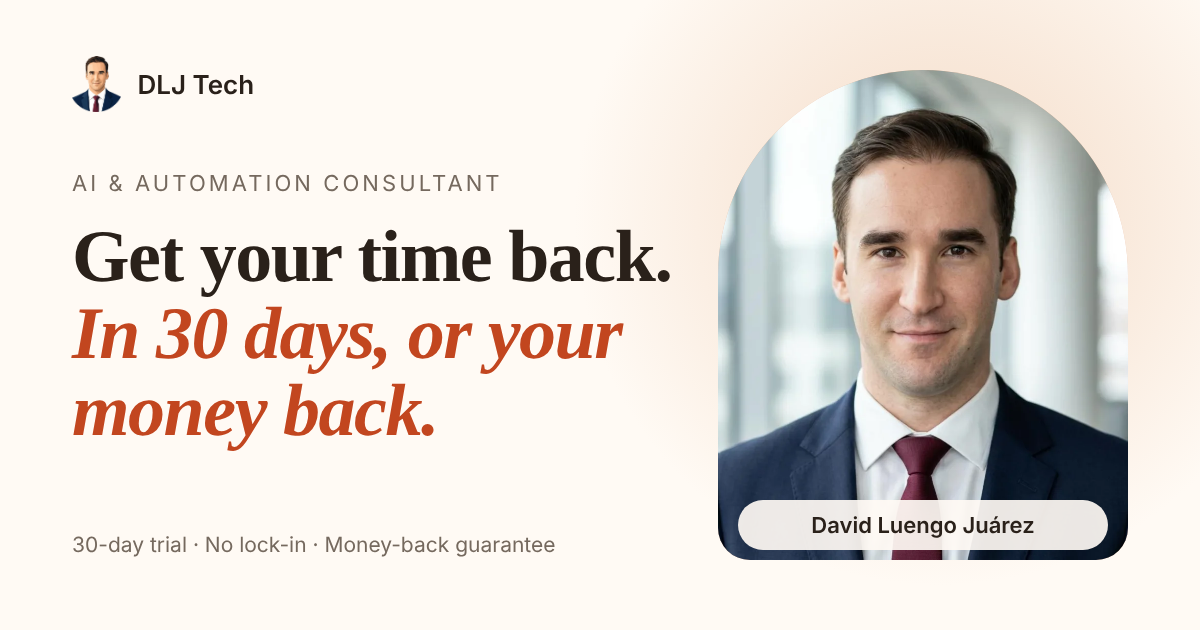
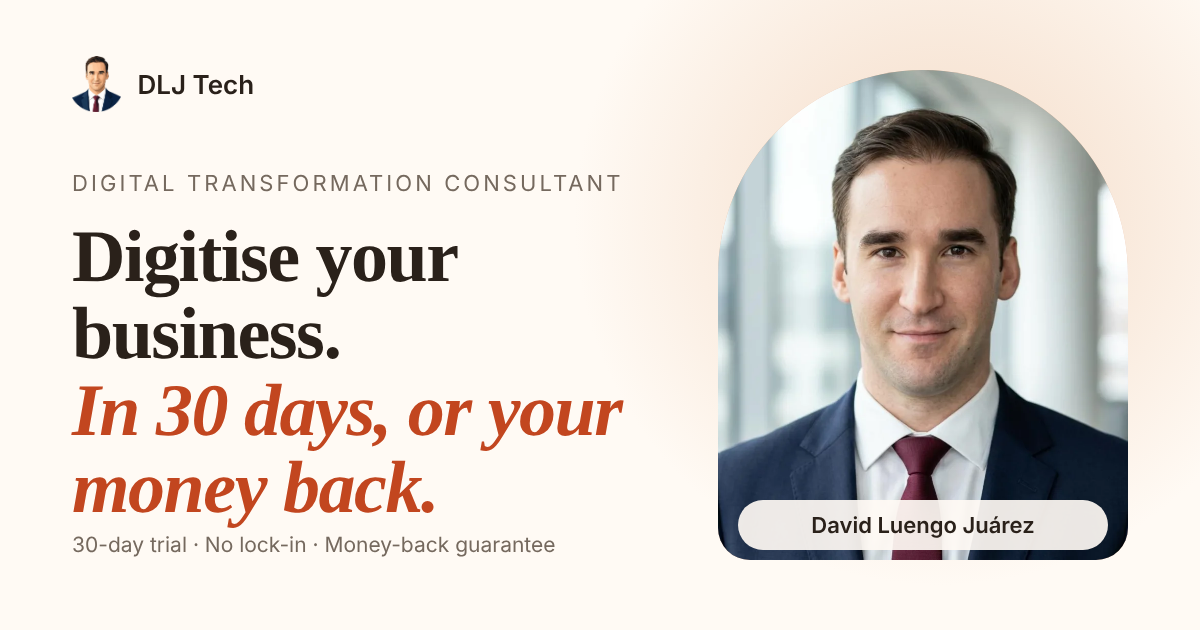
Reposition as Digital Transformation Consultant; show 3 cases with 'show more'
Claude-Session: https://claude.ai/code/session_011NqQPUufcnAxCw1TgCsvw7

Changed region(s): [[0.0617, 0.3619, 0.555, 0.8444], [0.0617, 0.2714, 0.5242, 0.3016]]

diff --git a/src/data/copy.ts b/src/data/copy.ts
@@ -6,8 +6,8 @@ const es = {
   htmlLang: 'es-ES',
   ogLocale: 'es_ES',
   seo: {
-    title: 'David Luengo Juárez · Consultor de IA y automatización',
-    description: 'Automatizo las tareas repetitivas de tu negocio con IA y herramientas a medida. Prueba de 30 días, sin permanencia y con garantía de devolución.',
+    title: 'David Luengo Juárez · Consultor de Transformación Digital',
+    description: 'Te ayudo a digitalizar y modernizar tu negocio: diagnóstico, hoja de ruta e implantación de procesos, herramientas y automatización. Prueba de 30 días, sin permanencia y con garantía de devolución.',
   },
   nav: { cta: 'Contacto', switch: 'English', switchLabel: 'Read this site in English', home: 'Inicio', skip: 'Saltar al contenido' },
   wa: { cta: 'Escríbeme por WhatsApp', msg: 'Hola David, me gustaría saber más sobre la prueba de 30 días.', or: 'o prefieres', form: 'rellenar el formulario' },
@@ -22,9 +22,9 @@ const es = {
   },
   stats: { h2: 'Resultados reales' },
   hero: {
-    h1: 'Recupera tu tiempo.',
+    h1: 'Digitaliza tu negocio.',
     h1b: 'En 30 días, o te devuelvo el dinero.',
-    sub: 'Parece que tu equipo pierde horas en tareas repetitivas, y que ya has oído muchas promesas. Por eso empezamos con una prueba de 30 días, sin permanencia.',
+    sub: 'Parece que tu negocio depende de procesos manuales y herramientas dispersas, y que ya has oído muchas promesas. Por eso empezamos con una prueba de 30 días, sin permanencia.',
     cta: 'Reservar una llamada gratuita',
     cta2: 'Ver cómo funciona',
     bullets: ['Sin permanencia', 'Resultados medibles en semanas', 'Devolución si no se cumple lo acordado'],
@@ -34,40 +34,41 @@ const es = {
   plan: {
     h2: 'Una oferta clara, sin letra pequeña',
     badge: 'Prueba de 30 días',
-    name: 'Automatización a medida',
+    name: 'Sprint de transformación digital',
     from: 'desde',
     price: '997',
     unit: 'USD · pago único',
-    features: ['Descubrimiento de tus 3-6 procesos clave', 'Automatización diseñada y desplegada por mí', 'Mejoras medibles acordadas por escrito', 'Sin permanencia ni cuotas', 'Garantía de devolución del dinero'],
+    features: ['Diagnóstico de tus 3-6 procesos clave', 'Hoja de ruta con objetivos medibles acordados por escrito', 'Primera mejora implantada: herramientas, automatización o IA', 'Sin permanencia ni cuotas', 'Garantía de devolución del dinero'],
     cta: 'Quiero empezar',
     note: 'Antes de empezar compruebo que puedo conseguirlo.',
   },
   services: {
-    h2: 'Cómo te ayudo a crecer',
+    h2: 'Cómo te ayudo a transformar tu negocio',
     items: [
-      { t: 'Reduce costes', d: 'Elimina tareas repetitivas y errores manuales con automatización inteligente.' },
-      { t: 'Crece más rápido', d: 'Herramientas a medida que simplifican tu operación.' },
-      { t: 'Resultados o te devuelvo el dinero', d: 'Mejoras medibles acordadas por escrito, o reembolso completo.' },
+      { t: 'Diagnóstico claro', d: 'Mapeamos procesos, herramientas y datos para ver dónde se pierden tiempo y dinero.' },
+      { t: 'Hoja de ruta práctica', d: 'Priorizamos mejoras de alto impacto y bajo riesgo, paso a paso.' },
+      { t: 'Implantación y adopción', d: 'Pongo en marcha herramientas, automatización e IA y acompaño a tu equipo para que se usen.' },
     ],
   },
   method: {
     h2: 'Empezar es sencillo',
     steps: [
-      { t: 'Descubrimiento', d: 'Identificamos los 3-6 procesos que de verdad importan.' },
-      { t: 'Simplificar', d: 'Diseñamos soluciones sencillas y rápidas.' },
-      { t: 'Automatizar', d: 'Lo desplegamos y lo dejamos midiendo resultados.' },
+      { t: 'Diagnóstico', d: 'Identificamos los 3-6 procesos que de verdad importan.' },
+      { t: 'Hoja de ruta', d: 'Diseñamos un plan sencillo, priorizado y medible.' },
+      { t: 'Implantación', d: 'Lo ponemos en marcha, formamos al equipo y medimos resultados.' },
     ],
   },
   compare: {
     h2: '¿Por qué DLJ Tech?',
     othersH: 'Otros',
     meH: 'DLJ Tech',
-    others: ['Soluciones genéricas', 'Sistemas complejos', 'Plazos largos y resultados poco claros', 'Contratos largos'],
-    me: ['Adaptado a tu sector', 'Herramientas simples', 'Resultados medibles en semanas', 'Sin permanencia'],
+    others: ['Proyectos largos y complejos', 'Herramientas que nadie usa', 'Resultados poco claros', 'Contratos largos'],
+    me: ['Plan adaptado a tu sector', 'Cambios simples que tu equipo adopta', 'Resultados medibles en semanas', 'Sin permanencia'],
   },
   faq: {
     h2: 'Preguntas frecuentes',
     items: [
+      { q: '¿Qué es la transformación digital en la práctica?', a: 'Usar mejor la tecnología y los datos para que tu negocio funcione con menos fricción: procesos digitalizados, herramientas conectadas y tareas repetitivas automatizadas. No se trata de comprar software, sino de resolver problemas concretos.' },
       { q: '¿Qué tan rápido puedes implantarlo?', a: 'Normalmente en 2-4 semanas, según la complejidad.' },
       { q: '¿Cuánto cuesta empezar?', a: 'La prueba de 30 días cuesta desde 997 USD, un único pago. Sin permanencia ni cuotas.' },
       { q: '¿Cuánto tiempo me exige?', a: 'Muy poco. Hablamos al principio y revisamos resultados; el trabajo técnico lo hago yo.' },
@@ -76,7 +77,7 @@ const es = {
   },
   about: {
     h2: 'Sobre mí',
-    text: 'Soy David Luengo Juárez, fundador de DLJ Tech. Automatizo procesos con IA y construyo herramientas para pymes, en español e inglés.',
+    text: 'Soy David Luengo Juárez, consultor de transformación digital y fundador de DLJ Tech. Ayudo a pymes a digitalizar procesos, conectar sus herramientas y automatizar con IA, en español e inglés.',
     linkedin: 'LinkedIn',
     github: 'GitHub',
   },
@@ -84,17 +85,19 @@ const es = {
   footer: { privacy: 'Privacidad', rights: 'Todos los derechos reservados.' },
   cases: {
     h2: 'Casos por sector',
-    sub: 'Ejemplos de lo que puedo automatizar en tu negocio.',
+    sub: 'Ejemplos de cómo puedo transformar tu negocio.',
     more: 'Ver caso',
+    showMore: 'Ver más casos',
+    showLess: 'Ver menos casos',
     back: 'Todos los casos', buildH: 'Qué construiría', measureH: 'Qué mediríamos',
     note: 'Escenario representativo. Los resultados dependen de tu operación y se acuerdan por escrito.',
     ctaH: '¿Te suena?',
     items: [
-      { slug: 'logistica', industry: 'Logística', title: 'Cotizaciones y envíos sin copiar y pegar', problem: 'Parece que tu equipo pasa el día pasando datos de correos y PDFs a hojas de cálculo.', build: ['Lectura automática de solicitudes y albaranes', 'Cotizaciones en minutos', 'Avisos de estado al cliente'], measure: ['Horas de entrada de datos', 'Tiempo hasta la cotización', 'Errores al mes'], seo: 'Automatización con IA para logística: cotizaciones, lectura de albaranes y avisos de estado de envíos.' },
-      { slug: 'viajes', industry: 'Viajes', title: 'De la consulta al itinerario en minutos', problem: 'Parece que cada consulta llega por un canal distinto y alguna se queda sin respuesta.', build: ['Bandeja única con respuesta inmediata', 'Borrador de itinerario y presupuesto', 'Seguimiento automático'], measure: ['Tiempo de primera respuesta', 'Propuestas por semana', 'Conversión a reserva'], seo: 'Automatización con IA para agencias de viajes: consultas, itinerarios y presupuestos.' },
-      { slug: 'restaurantes', industry: 'Restauración', title: 'Menos papeleo, más tiempo en sala', problem: 'Parece que el teléfono suena justo cuando el servicio está más cargado.', build: ['Reservas y dudas por WhatsApp', 'Respuestas a reseñas con tu tono', 'Alertas de stock y pedidos'], measure: ['Llamadas atendidas', 'No-shows', 'Roturas de stock'], seo: 'Automatización con IA para restaurantes: reservas, reseñas y pedidos a proveedores.' },
-      { slug: 'educacion-idiomas', industry: 'Idiomas', title: 'Matrículas y seguimiento en piloto automático', problem: 'Parece que los alumnos se pierden entre la clase de prueba y la matrícula.', build: ['Prueba de nivel y clase de prueba automáticas', 'Agenda y recordatorios', 'Borradores de informes de progreso'], measure: ['Conversión a matrícula', 'Horas de gestión', 'Faltas sin aviso'], seo: 'Automatización con IA para academias de idiomas: captación, agenda e informes de progreso.' },
-      { slug: 'salud', industry: 'Salud', title: 'Citas y admisiones con menos fricción', problem: 'Parece que recepción dedica horas a confirmar citas por teléfono.', build: ['Recordatorios y confirmaciones', 'Formularios de admisión digitales', 'Orden documental con revisión humana'], measure: ['Ausencias sin aviso', 'Llamadas evitadas', 'Tiempo de admisión'], seo: 'Automatización administrativa para clínicas: citas, admisión y documentos, cuidando la privacidad.' },
+      { slug: 'logistica', industry: 'Logística', title: 'De correos y hojas de cálculo a un flujo digital', problem: 'Parece que tu equipo pasa el día pasando datos de correos y PDFs a hojas de cálculo.', build: ['Mapa de procesos y datos de punta a punta', 'Cotizaciones y albaranes digitalizados', 'Avisos de estado al cliente'], measure: ['Horas de entrada de datos', 'Tiempo hasta la cotización', 'Errores al mes'], seo: 'Transformación digital para logística: procesos de cotización, albaranes y avisos de estado de envíos.' },
+      { slug: 'viajes', industry: 'Viajes', title: 'Un único canal de consultas a reserva', problem: 'Parece que cada consulta llega por un canal distinto y alguna se queda sin respuesta.', build: ['Bandeja única con respuesta inmediata', 'Proceso estándar de itinerario y presupuesto', 'Seguimiento digital de cada propuesta'], measure: ['Tiempo de primera respuesta', 'Propuestas por semana', 'Conversión a reserva'], seo: 'Transformación digital para agencias de viajes: consultas, itinerarios y presupuestos en un solo flujo.' },
+      { slug: 'restaurantes', industry: 'Restauración', title: 'Menos papeleo, más tiempo en sala', problem: 'Parece que el teléfono suena justo cuando el servicio está más cargado.', build: ['Reservas y dudas por WhatsApp', 'Gestión digital de reseñas', 'Control de stock y pedidos a proveedores'], measure: ['Llamadas atendidas', 'No-shows', 'Roturas de stock'], seo: 'Transformación digital para restaurantes: reservas, reseñas y pedidos a proveedores.' },
+      { slug: 'educacion-idiomas', industry: 'Idiomas', title: 'Del primer contacto a la matrícula, sin fricción', problem: 'Parece que los alumnos se pierden entre la clase de prueba y la matrícula.', build: ['Embudo digital: prueba de nivel y clase de prueba', 'Agenda y recordatorios', 'Informes de progreso estandarizados'], measure: ['Conversión a matrícula', 'Horas de gestión', 'Faltas sin aviso'], seo: 'Transformación digital para academias de idiomas: captación, agenda e informes de progreso.' },
+      { slug: 'salud', industry: 'Salud', title: 'Citas y admisiones con menos fricción', problem: 'Parece que recepción dedica horas a confirmar citas por teléfono.', build: ['Recordatorios y confirmaciones', 'Formularios de admisión digitales', 'Orden documental con revisión humana'], measure: ['Ausencias sin aviso', 'Llamadas evitadas', 'Tiempo de admisión'], seo: 'Transformación digital administrativa para clínicas: citas, admisión y documentos, cuidando la privacidad.' },
     ] as CaseStudy[],
   },
   modal: { title: 'Cuéntame tu caso', sub: 'Respondo en un máximo de 48 horas.', close: 'Cerrar', loading: 'Cargando…', fallback: 'Abrir el formulario en una pestaña nueva' },
@@ -118,8 +121,8 @@ const en: typeof es = {
   htmlLang: 'en-US',
   ogLocale: 'en_US',
   seo: {
-    title: 'David Luengo Juárez · AI & automation consultant',
-    description: 'I automate the repetitive work in your business with AI and custom tools. 30-day trial, no lock-in, money-back guarantee.',
+    title: 'David Luengo Juárez · Digital Transformation Consultant',
+    description: 'I help you digitise and modernise your business: diagnosis, roadmap and rollout of processes, tools and automation. 30-day trial, no lock-in, money-back guarantee.',
   },
   nav: { cta: 'Contact', switch: 'Español', switchLabel: 'Leer esta web en español', home: 'Home', skip: 'Skip to content' },
   wa: { cta: 'Message me on WhatsApp', msg: "Hi David, I'd like to know more about the 30-day trial.", or: 'or you can', form: 'fill in the form' },
@@ -134,9 +137,9 @@ const en: typeof es = {
   },
   stats: { h2: 'Real results' },
   hero: {
-    h1: 'Get your time back.',
+    h1: 'Digitise your business.',
     h1b: 'In 30 days, or your money back.',
-    sub: "It sounds like your team loses hours to repetitive tasks, and that you've heard plenty of promises. That's why we start with a 30-day trial, no lock-in.",
+    sub: "It sounds like your business relies on manual processes and scattered tools, and that you've heard plenty of promises. That's why we start with a 30-day trial, no lock-in.",
     cta: 'Book a free call',
     cta2: 'See how it works',
     bullets: ['No lock-in', 'Measurable results in weeks', 'Refund if what we agreed is not met'],
@@ -146,40 +149,41 @@ const en: typeof es = {
   plan: {
     h2: 'One clear offer, no small print',
     badge: '30-day trial',
-    name: 'Custom automation',
+    name: 'Digital transformation sprint',
     from: 'from',
     price: '997',
     unit: 'USD · one payment',
-    features: ['Discovery of your 3-6 key processes', 'Automation designed and deployed by me', 'Measurable improvements agreed in writing', 'No lock-in, no instalments', 'Money-back guarantee'],
+    features: ['Diagnosis of your 3-6 key processes', 'Roadmap with measurable goals agreed in writing', 'First improvement delivered: tools, automation or AI', 'No lock-in, no instalments', 'Money-back guarantee'],
     cta: 'I want to start',
     note: 'Before starting I check I can deliver.',
   },
   services: {
-    h2: 'How I help you grow',
+    h2: 'How I help you transform your business',
     items: [
-      { t: 'Cut costs', d: 'Remove repetitive tasks and manual errors with smart automation.' },
-      { t: 'Grow faster', d: 'Custom tools that simplify your operations.' },
-      { t: 'Results or your money back', d: 'Measurable improvements agreed in writing, or a full refund.' },
+      { t: 'Clear diagnosis', d: 'We map processes, tools and data to see where time and money are lost.' },
+      { t: 'Practical roadmap', d: 'We prioritise high-impact, low-risk improvements, step by step.' },
+      { t: 'Rollout and adoption', d: 'I set up tools, automation and AI, and support your team so they actually get used.' },
     ],
   },
   method: {
     h2: 'Getting started is simple',
     steps: [
-      { t: 'Discovery', d: 'We find the 3-6 processes that really matter.' },
-      { t: 'Simplify', d: 'We design simple, fast solutions.' },
-      { t: 'Automate', d: 'We deploy it and track the results.' },
+      { t: 'Diagnosis', d: 'We find the 3-6 processes that really matter.' },
+      { t: 'Roadmap', d: 'We design a simple, prioritised, measurable plan.' },
+      { t: 'Rollout', d: 'We launch it, train the team and track the results.' },
     ],
   },
   compare: {
     h2: 'Why DLJ Tech?',
     othersH: 'Others',
     meH: 'DLJ Tech',
-    others: ['Generic solutions', 'Complex systems', 'Long timelines, unclear results', 'Long contracts'],
-    me: ['Built for your industry', 'Simple tools', 'Measurable results in weeks', 'No lock-in'],
+    others: ['Long, complex projects', 'Tools nobody uses', 'Unclear results', 'Long contracts'],
+    me: ['A plan built for your industry', 'Simple changes your team adopts', 'Measurable results in weeks', 'No lock-in'],
   },
   faq: {
     h2: 'FAQ',
     items: [
+      { q: 'What does digital transformation mean in practice?', a: 'Using technology and data better so your business runs with less friction: digitised processes, connected tools and repetitive tasks automated. It is not about buying software; it is about solving concrete problems.' },
       { q: 'How fast can you implement it?', a: 'Usually 2-4 weeks, depending on complexity.' },
       { q: 'How much does it cost to start?', a: 'The 30-day trial starts at USD 997, one payment. No lock-in, no instalments.' },
       { q: 'How much of my time does it need?', a: 'Very little. We talk at the start and review results; I do the technical work.' },
@@ -188,7 +192,7 @@ const en: typeof es = {
   },
   about: {
     h2: 'About',
-    text: "I'm David Luengo Juárez, founder of DLJ Tech. I automate processes with AI and build tools for small businesses, in Spanish and English.",
+    text: "I'm David Luengo Juárez, digital transformation consultant and founder of DLJ Tech. I help small businesses digitise processes, connect their tools and automate with AI, in Spanish and English.",
     linkedin: 'LinkedIn',
     github: 'GitHub',
   },
@@ -196,17 +200,19 @@ const en: typeof es = {
   footer: { privacy: 'Privacy', rights: 'All rights reserved.' },
   cases: {
     h2: 'Use cases by industry',
-    sub: 'Examples of what I can automate in your business.',
+    sub: 'Examples of how I can transform your business.',
     more: 'See case',
+    showMore: 'Show more cases',
+    showLess: 'Show fewer cases',
     back: 'All use cases', buildH: 'What I would build', measureH: 'What we would measure',
     note: 'Representative scenario. Results depend on your operation and are agreed in writing.',
     ctaH: 'Sound familiar?',
     items: [
-      { slug: 'logistics', industry: 'Logistics', title: 'Quotes and shipments without copy-paste', problem: 'It sounds like your team spends the day moving data from emails and PDFs into spreadsheets.', build: ['Automatic reading of requests and delivery notes', 'Quotes in minutes', 'Status updates to customers'], measure: ['Hours of data entry', 'Time to quote', 'Errors per month'], seo: 'AI automation for logistics: quotes, delivery-note reading and shipment status updates.' },
-      { slug: 'travel', industry: 'Travel', title: 'From enquiry to itinerary in minutes', problem: 'It sounds like each enquiry arrives through a different channel and some go unanswered.', build: ['One inbox with instant replies', 'Itinerary and quote drafts', 'Automatic follow-up'], measure: ['Time to first reply', 'Proposals per week', 'Booking conversion'], seo: 'AI automation for travel agencies: enquiries, itineraries and quotes.' },
-      { slug: 'restaurants', industry: 'Restaurants', title: 'Less paperwork, more time on the floor', problem: 'It sounds like the phone rings just when service is busiest.', build: ['Bookings and questions on WhatsApp', 'Review replies in your tone', 'Stock alerts and supplier orders'], measure: ['Calls handled', 'No-shows', 'Stock-outs'], seo: 'AI automation for restaurants: bookings, reviews and supplier orders.' },
-      { slug: 'language-education', industry: 'Languages', title: 'Enrolment and follow-up on autopilot', problem: 'It sounds like students get lost between the trial class and enrolment.', build: ['Automatic placement test and trial class', 'Scheduling and reminders', 'Progress report drafts'], measure: ['Enrolment conversion', 'Admin hours', 'No-shows'], seo: 'AI automation for language schools: lead capture, scheduling and progress reports.' },
-      { slug: 'health', industry: 'Health', title: 'Appointments and intake with less friction', problem: 'It sounds like reception spends hours phoning to confirm appointments.', build: ['Reminders and confirmations', 'Digital intake forms', 'Document filing with human review'], measure: ['No-shows', 'Calls avoided', 'Intake time'], seo: 'Administrative automation for clinics: appointments, intake and documents, with privacy in mind.' },
+      { slug: 'logistics', industry: 'Logistics', title: 'From emails and spreadsheets to a digital flow', problem: 'It sounds like your team spends the day moving data from emails and PDFs into spreadsheets.', build: ['End-to-end process and data map', 'Digitised quotes and delivery notes', 'Status updates to customers'], measure: ['Hours of data entry', 'Time to quote', 'Errors per month'], seo: 'Digital transformation for logistics: quoting, delivery-note and shipment status processes.' },
+      { slug: 'travel', industry: 'Travel', title: 'One enquiry channel, all the way to booking', problem: 'It sounds like each enquiry arrives through a different channel and some go unanswered.', build: ['One inbox with instant replies', 'A standard itinerary and quote process', 'Digital follow-up on every proposal'], measure: ['Time to first reply', 'Proposals per week', 'Booking conversion'], seo: 'Digital transformation for travel agencies: enquiries, itineraries and quotes in a single flow.' },
+      { slug: 'restaurants', industry: 'Restaurants', title: 'Less paperwork, more time on the floor', problem: 'It sounds like the phone rings just when service is busiest.', build: ['Bookings and questions on WhatsApp', 'Digital review management', 'Stock control and supplier orders'], measure: ['Calls handled', 'No-shows', 'Stock-outs'], seo: 'Digital transformation for restaurants: bookings, reviews and supplier orders.' },
+      { slug: 'language-education', industry: 'Languages', title: 'From first contact to enrolment, without friction', problem: 'It sounds like students get lost between the trial class and enrolment.', build: ['Digital funnel: placement test and trial class', 'Scheduling and reminders', 'Standardised progress reports'], measure: ['Enrolment conversion', 'Admin hours', 'No-shows'], seo: 'Digital transformation for language schools: lead capture, scheduling and progress reports.' },
+      { slug: 'health', industry: 'Health', title: 'Appointments and intake with less friction', problem: 'It sounds like reception spends hours phoning to confirm appointments.', build: ['Reminders and confirmations', 'Digital intake forms', 'Document filing with human review'], measure: ['No-shows', 'Calls avoided', 'Intake time'], seo: 'Administrative digital transformation for clinics: appointments, intake and documents, with privacy in mind.' },
     ],
   },
   modal: { title: 'Tell me about your case', sub: 'I reply within 48 hours.', close: 'Close', loading: 'Loading…', fallback: 'Open the form in a new tab' },

diff --git a/src/styles/global.css b/src/styles/global.css
@@ -76,6 +76,8 @@ p{margin:0 0 1em}
 .cases{grid-template-columns:repeat(6,1fr)}.cases .case{grid-column:span 2}.cases .case:nth-child(4){grid-column:2/span 2}.cases .case:nth-child(5){grid-column:4/span 2}
 @media (max-width:820px){.cases{grid-template-columns:1fr 1fr}.cases .case,.cases .case:nth-child(n){grid-column:auto}.cases .case:last-child{grid-column:1/-1}}
 @media (max-width:520px){.cases{grid-template-columns:1fr}}
+.case[hidden]{display:none}
+.show-more{margin:2rem 0 0}.show-more .linkbtn{color:var(--brand);font-size:1.05rem}
 .case{color:var(--ink);display:block;transition:transform .3s}.case:hover{transform:scale(1.02);text-decoration:none}
 .case .tag{margin:0 0 .5rem}.more{color:var(--brand)}
 .tag{color:var(--muted);font-weight:600;font-size:.85rem;margin:2rem 0 .5rem}

diff --git a/README.md b/README.md
@@ -1,6 +1,6 @@
 # DLJ Tech — David Luengo Juárez
 
-Bilingual (ES default, EN under `/en/`) static landing page + use-case portfolio. Astro, no client framework, ~0 KB framework JS.
+Bilingual (ES default, EN under `/en/`) static landing page + use-case portfolio for a digital transformation consultant. Astro, no client framework, ~0 KB framework JS.
 
 ```bash
 npm install
